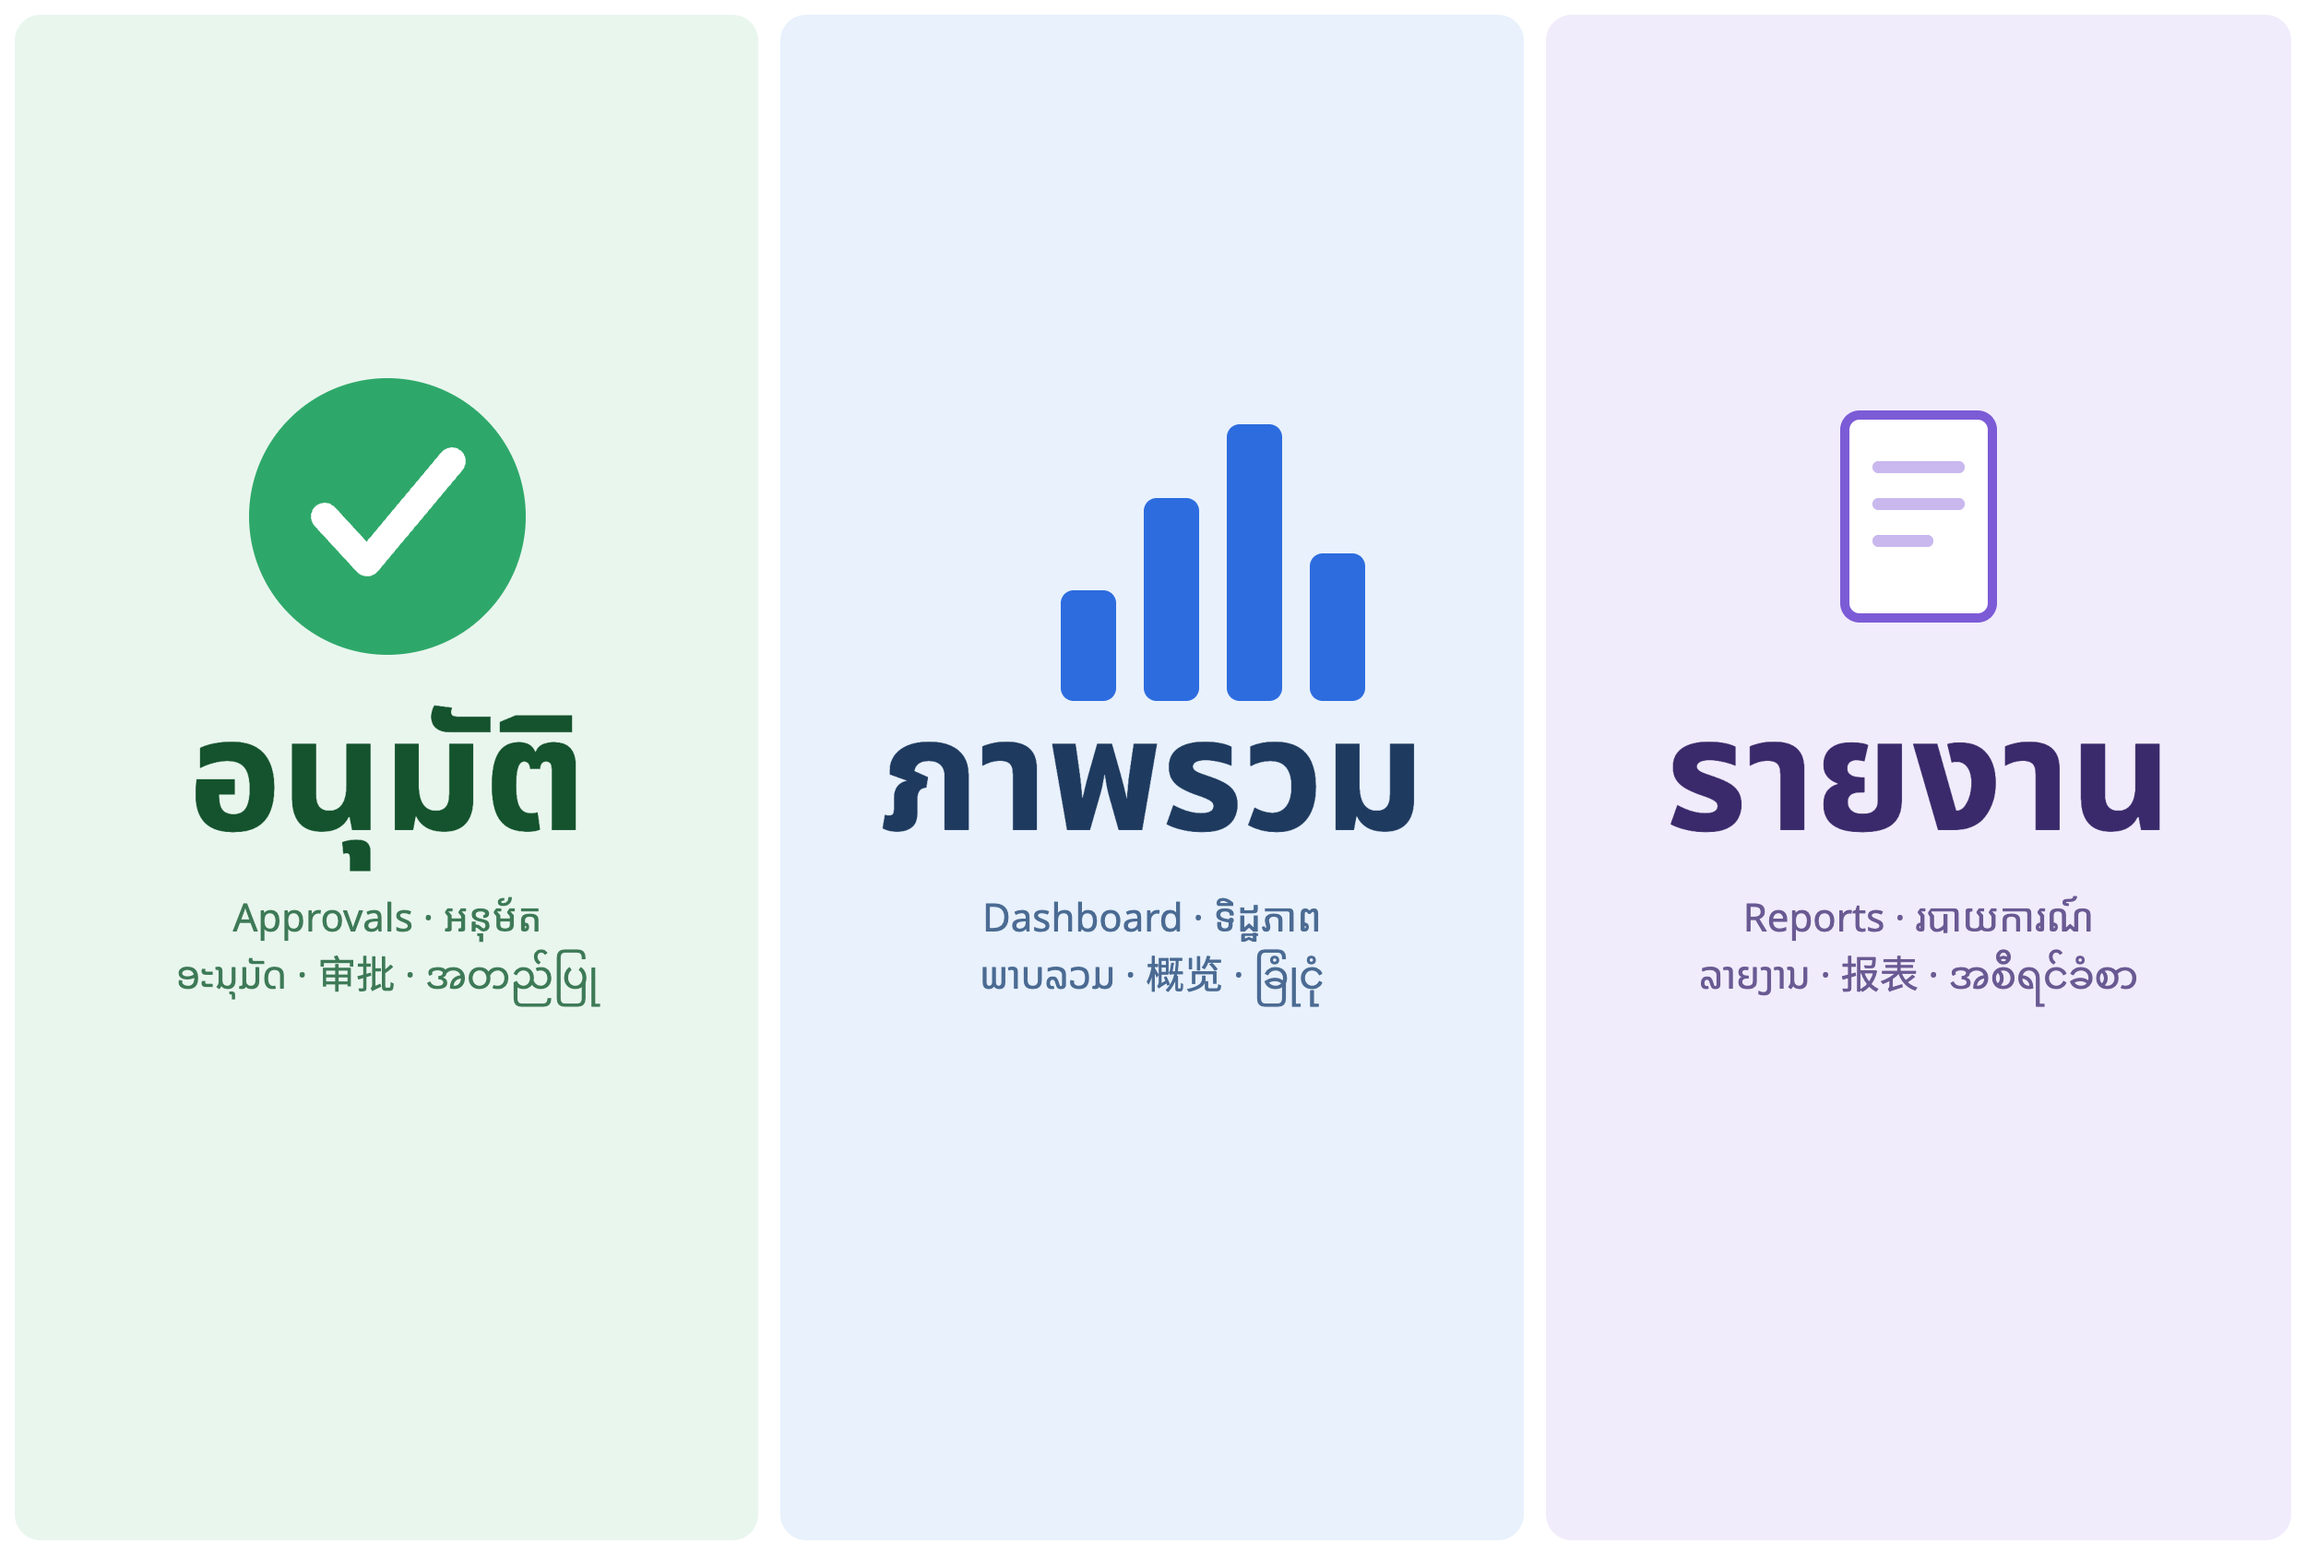
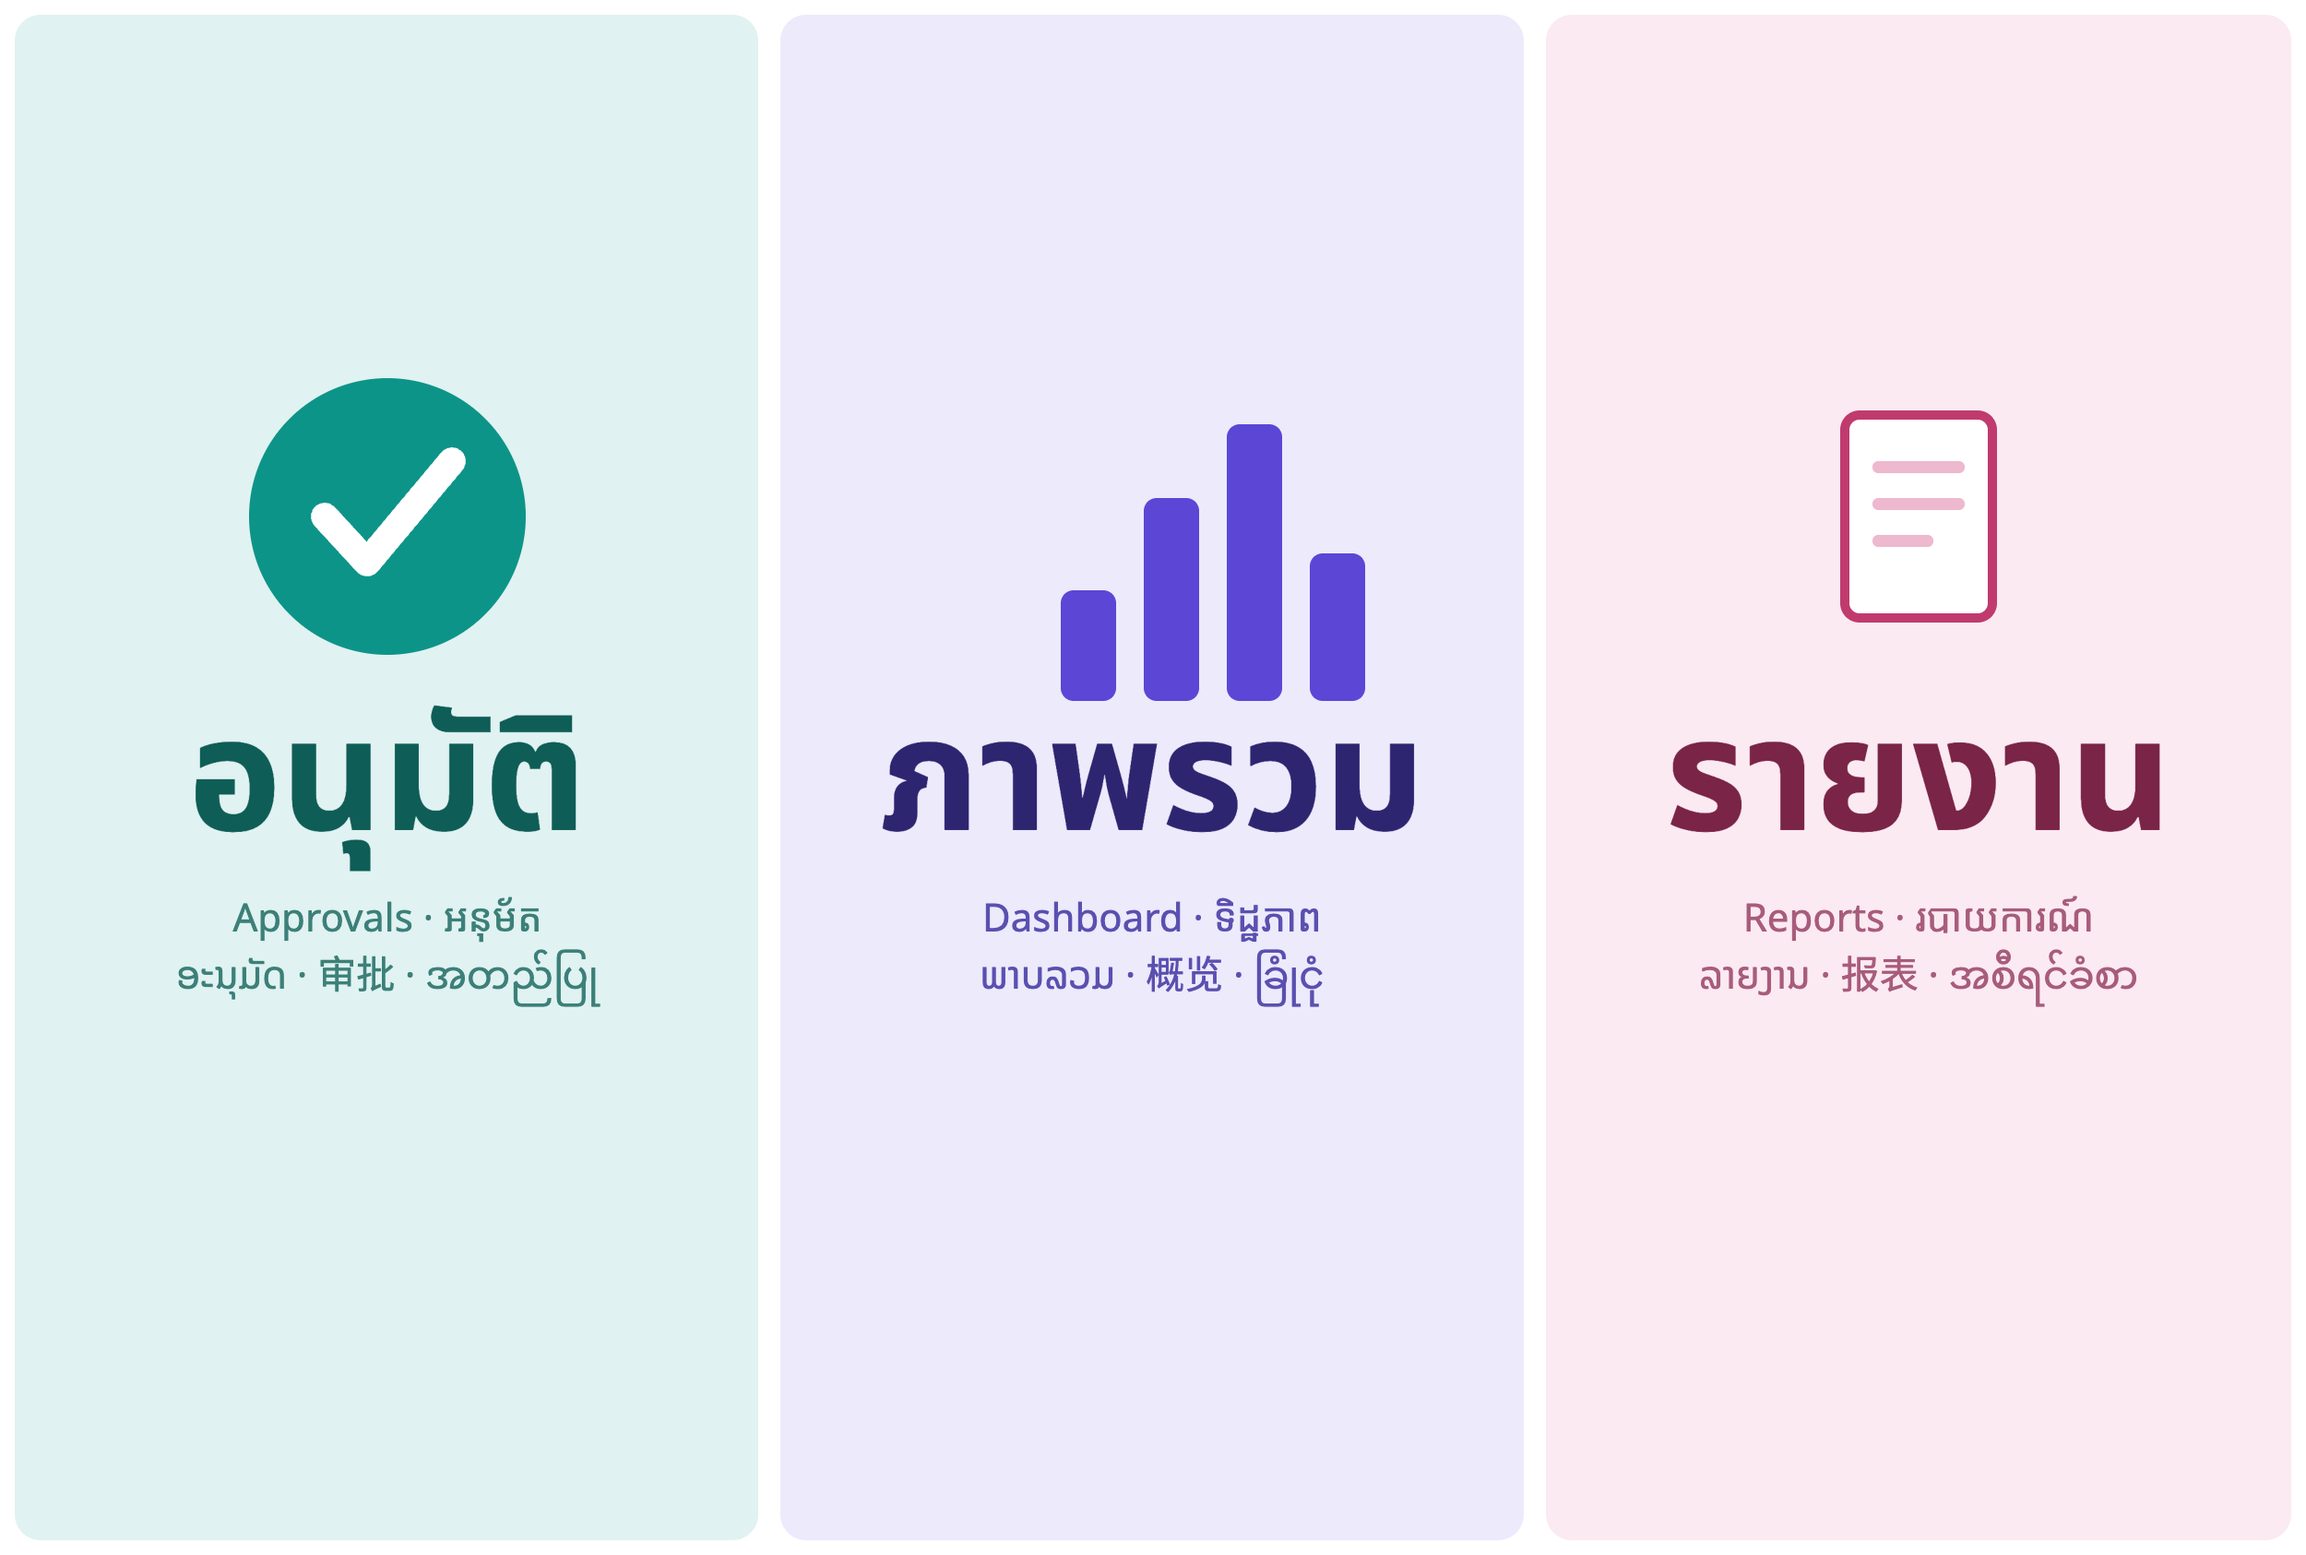
chore(line): distinct admin palette (teal/indigo/rose) for combined menu
Admin buttons reused employee hues, so in the combined menu approvals(green)
collided with advance and dashboard(blue) with check-in. Recolor admin to
teal #0D9488 / indigo #5B46D6 / rose #C03A6E — distinct from employee
blue/orange/green. Re-rendered menu-admin + menu-combined; prompts updated.

diff --git a/assets/rich-menu/IMAGE-PROMPTS.md b/assets/rich-menu/IMAGE-PROMPTS.md
@@ -79,12 +79,12 @@ Generate at the highest resolution available, then upscale to the menu size
 > 3D rendered icon illustration in soft rounded clay/plasticine style, smooth matte
 > surfaces, gentle studio lighting with soft shadows, friendly modern product-icon
 > aesthetic, 1:1 square.
-> BACKGROUND: solid soft mint-green, hex #E9F6EE.
-> SUBJECT: a small stack of rounded documents with a glossy green "approved"
-> check-stamp (hex #2EA86A) pressing the top sheet, plus a floating green circular
+> BACKGROUND: solid soft teal, hex #E0F2F1.
+> SUBJECT: a small stack of rounded documents with a glossy teal "approved"
+> check-stamp (hex #0D9488) pressing the top sheet, plus a floating teal circular
 > checkmark badge.
-> TEXT headline (large, bold, Thai, color #14532D): "อนุมัติ"
-> TEXT subtitle (small, color #3E7A57): "Approvals · អនុម័ត · ອະນຸມັດ · 审批 · အတည်ပြု"
+> TEXT headline (large, bold, Thai, color #0F5D57): "อนุมัติ"
+> TEXT subtitle (small, color #3C8079): "Approvals · អនុម័ត · ອະນຸມັດ · 审批 · အတည်ပြု"
 > Generous margin, no extra words, no people, no watermark.
 
 ## 6. ภาพรวม — Dashboard  (admin)
@@ -92,12 +92,12 @@ Generate at the highest resolution available, then upscale to the menu size
 > 3D rendered icon illustration in soft rounded clay/plasticine style, smooth matte
 > surfaces, gentle studio lighting with soft shadows, friendly modern product-icon
 > aesthetic, 1:1 square.
-> BACKGROUND: solid soft sky-blue, hex #E8F1FC.
+> BACKGROUND: solid soft indigo-lavender, hex #ECEAFB.
 > SUBJECT: a floating rounded dashboard panel showing a small bar chart and a rising
-> line graph (accent blue hex #2D6CDF), with a separate little donut/pie chart and an
-> upward arrow beside it.
-> TEXT headline (large, bold, Thai, color #1E3A5F): "ภาพรวม"
-> TEXT subtitle (small, color #4B6B93): "Dashboard · ទិដ្ឋភាព · ພາບລວມ · 概览 · ခြုံငုံ"
+> line graph (accent indigo hex #5B46D6), with a separate little donut/pie chart and
+> an upward arrow beside it.
+> TEXT headline (large, bold, Thai, color #2E2570): "ภาพรวม"
+> TEXT subtitle (small, color #5A50B0): "Dashboard · ទិដ្ឋភាព · ພາບລວມ · 概览 · ခြုံငုံ"
 > Generous margin, no extra words, no people, no watermark.
 
 ## 7. รายงาน — Reports  (admin)
@@ -105,12 +105,12 @@ Generate at the highest resolution available, then upscale to the menu size
 > 3D rendered icon illustration in soft rounded clay/plasticine style, smooth matte
 > surfaces, gentle studio lighting with soft shadows, friendly modern product-icon
 > aesthetic, 1:1 square.
-> BACKGROUND: solid soft lavender, hex #F1ECFB.
+> BACKGROUND: solid soft rose, hex #FBEAF1.
 > SUBJECT: a printed report document with a tidy bar chart and pie chart on it
 > (abstract bars/wedges, no readable words), a couple of sheets stacked behind, and a
-> small magnifier resting on top; main accent color purple hex #7C5BD6.
-> TEXT headline (large, bold, Thai, color #3A2A6B): "รายงาน"
-> TEXT subtitle (small, color #6A5A93): "Reports · របាយការណ៍ · ລາຍງານ · 报表 · အစီရင်ခံစာ"
+> small magnifier resting on top; main accent color rose hex #C03A6E.
+> TEXT headline (large, bold, Thai, color #7A2447): "รายงาน"
+> TEXT subtitle (small, color #A85C7C): "Reports · របាយការណ៍ · ລາຍງານ · 报表 · အစီရင်ခံစာ"
 > Generous margin, no extra words, no people, no watermark.
 
 ---
@@ -128,5 +128,7 @@ Generate at the highest resolution available, then upscale to the menu size
 | Square tiles (1:1) | top ~40% | bottom ~60% |
 
 Keep each illustration's dominant color equal to that tile's accent hex so art and
-panel feel unified. Brand palette: blue #2D6CDF · orange #E08A2B · green #2EA86A ·
-purple #7C5BD6, on pastels #E8F1FC / #FBF1E8 / #E9F6EE / #F1ECFB.
+panel feel unified. The admin trio is deliberately distinct from the employee colors
+so the two groups read apart in the combined menu:
+- **Employee:** check-in blue #2D6CDF · leave orange #E08A2B · advance green #2EA86A · calendar purple #7C5BD6
+- **Admin:** approvals teal #0D9488 · dashboard indigo #5B46D6 · reports rose #C03A6E
